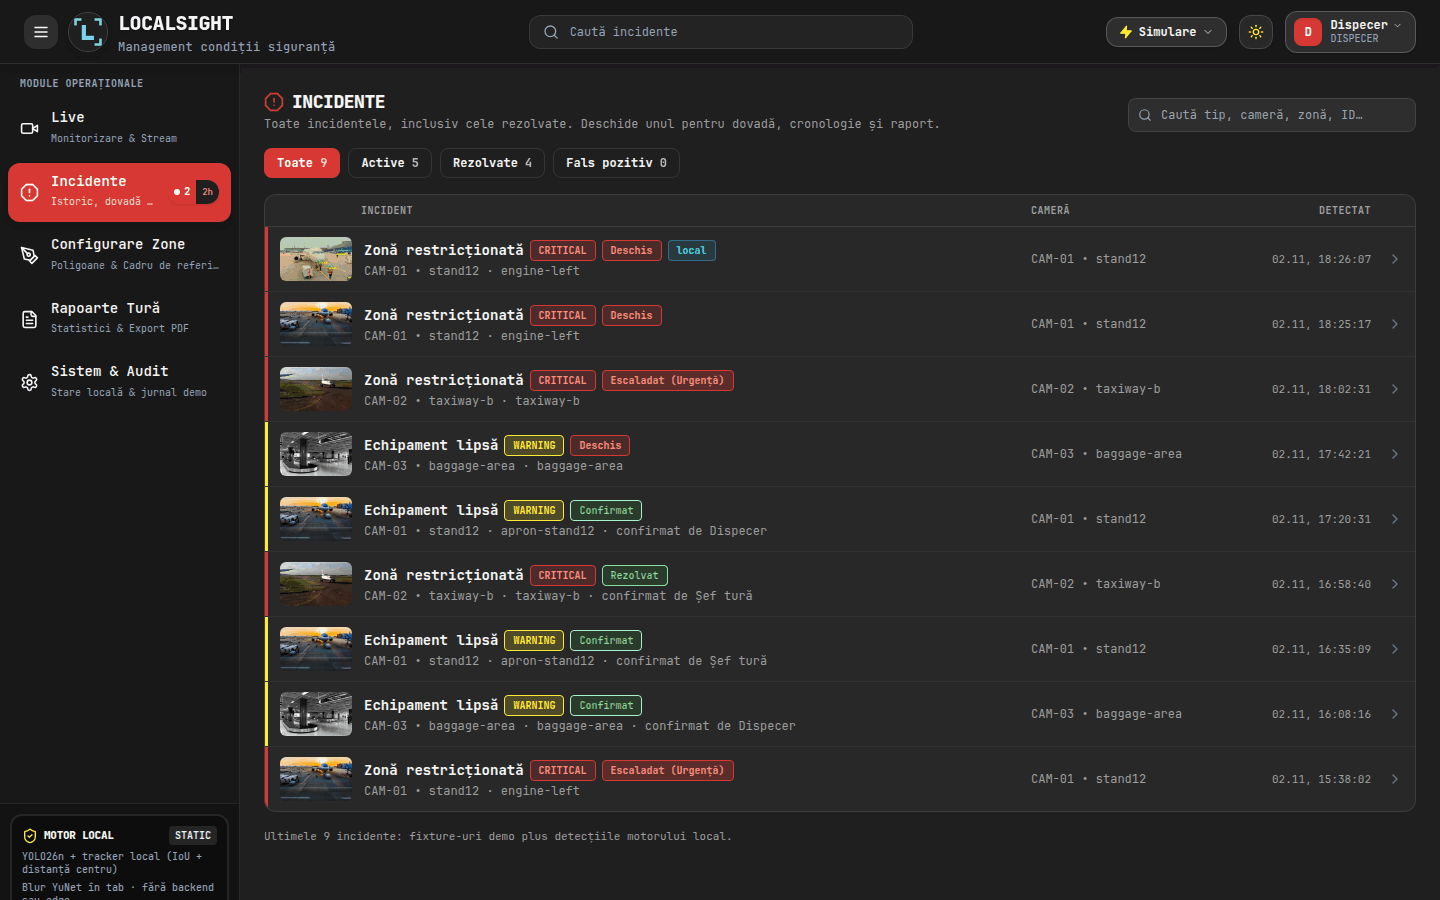
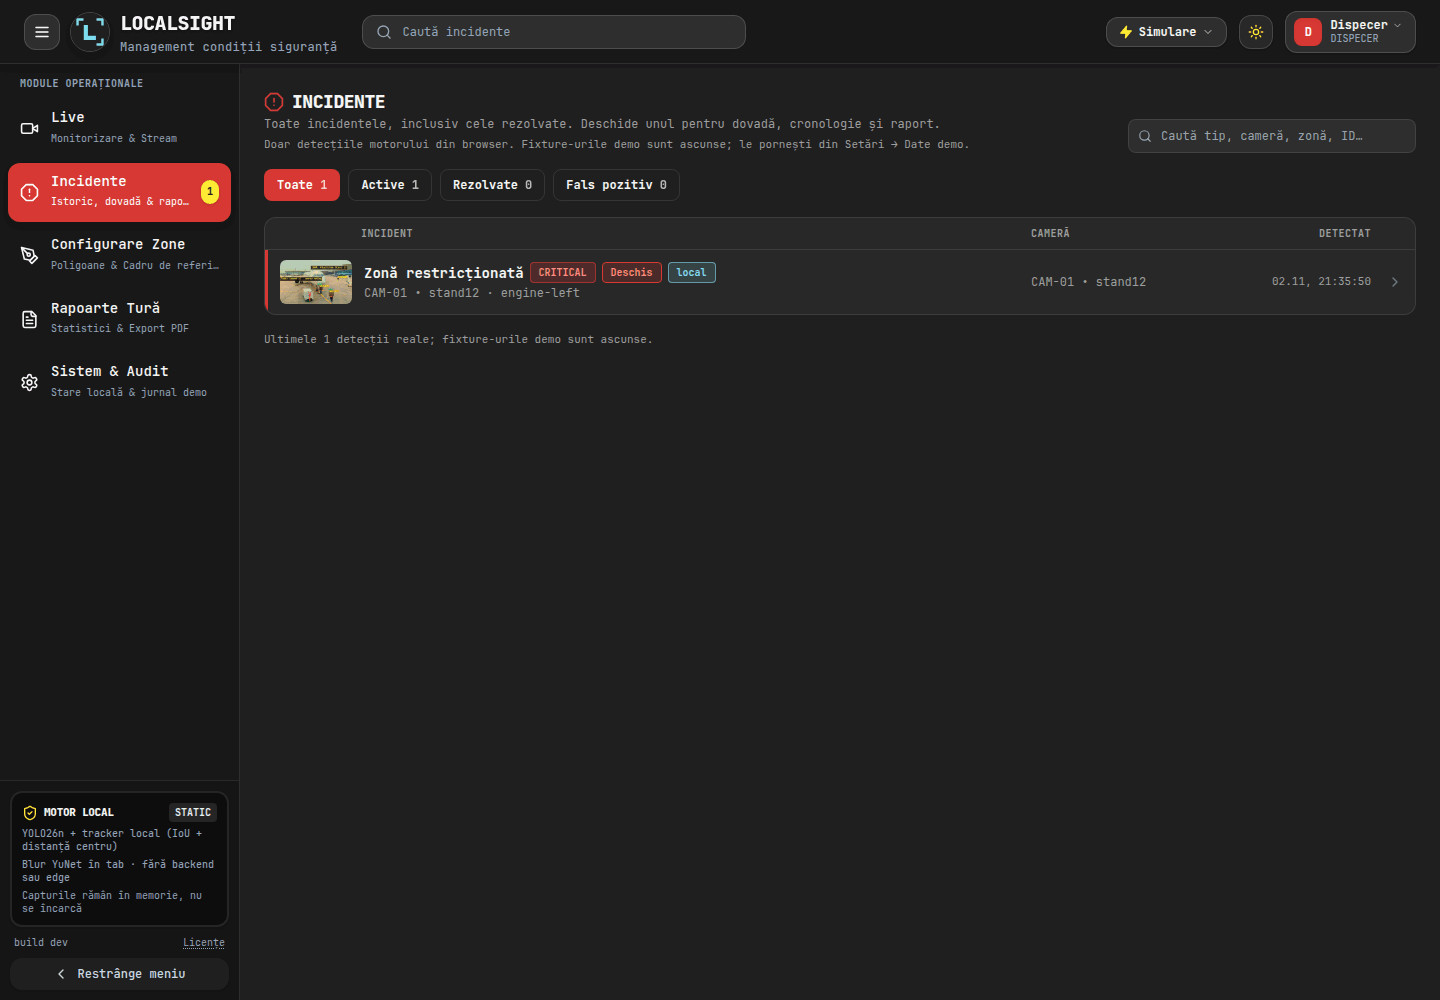
docs: refresh the screenshots for the real-only, ground-tracked build

diff --git a/README.md b/README.md
@@ -70,10 +70,10 @@ Toate rutele sunt client-side, definite în `VIEW_PATHS` din
 ## Capturi
 
 ![Live: feed-ul camerei CAM-01 cu zona motorului și incidentele detectate](docs/assets/localsight-live.png)
-*Live: feed-ul camerei CAM-01 cu zona motorului și incidentele detectate.*
+*Live: motorul din browser pe CAM-01, zonele pe sol și un incident real; fixturile demo sunt oprite.*
 
 ![Incidente: lista completă, cu severitate, status și dovada foto](docs/assets/localsight-incidents.png)
-*Incidente: lista completă, cu severitate, status și dovada foto.*
+*Incidente: doar detecția reală, cu severitate, status și dovadă; datele demo sunt ascunse implicit.*
 
 ![Configurare zone: poligonul pe canvas și parametrii regulii](docs/assets/localsight-zones.png)
 *Configurare zone: poligonul pe canvas și parametrii regulii.*
